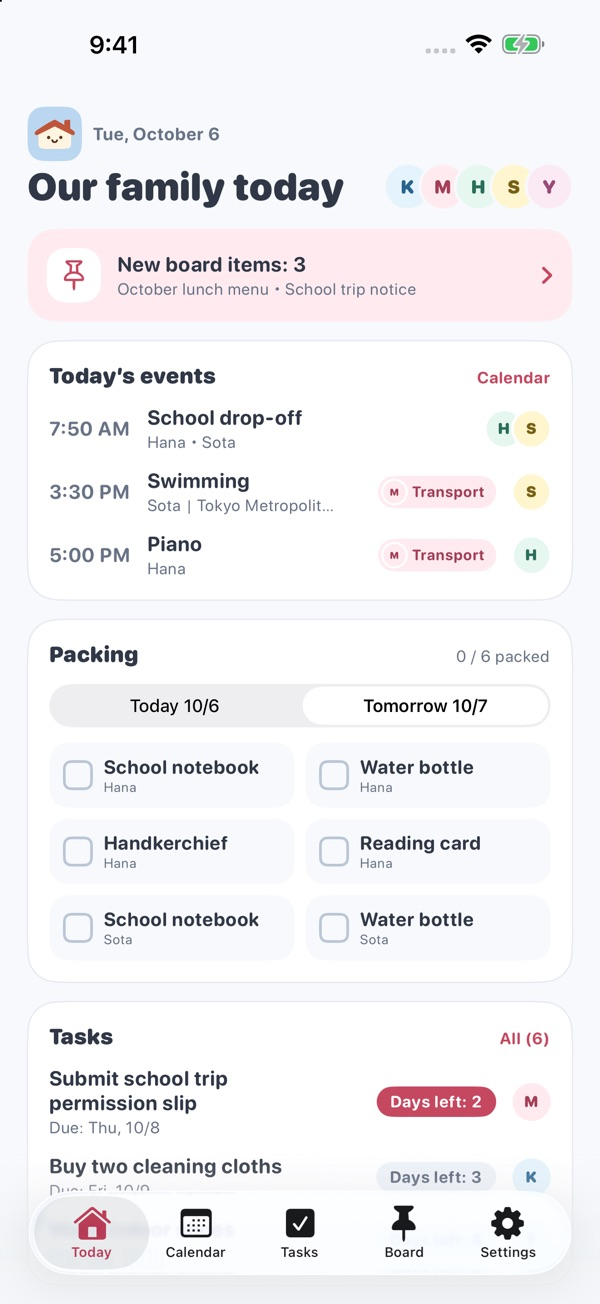
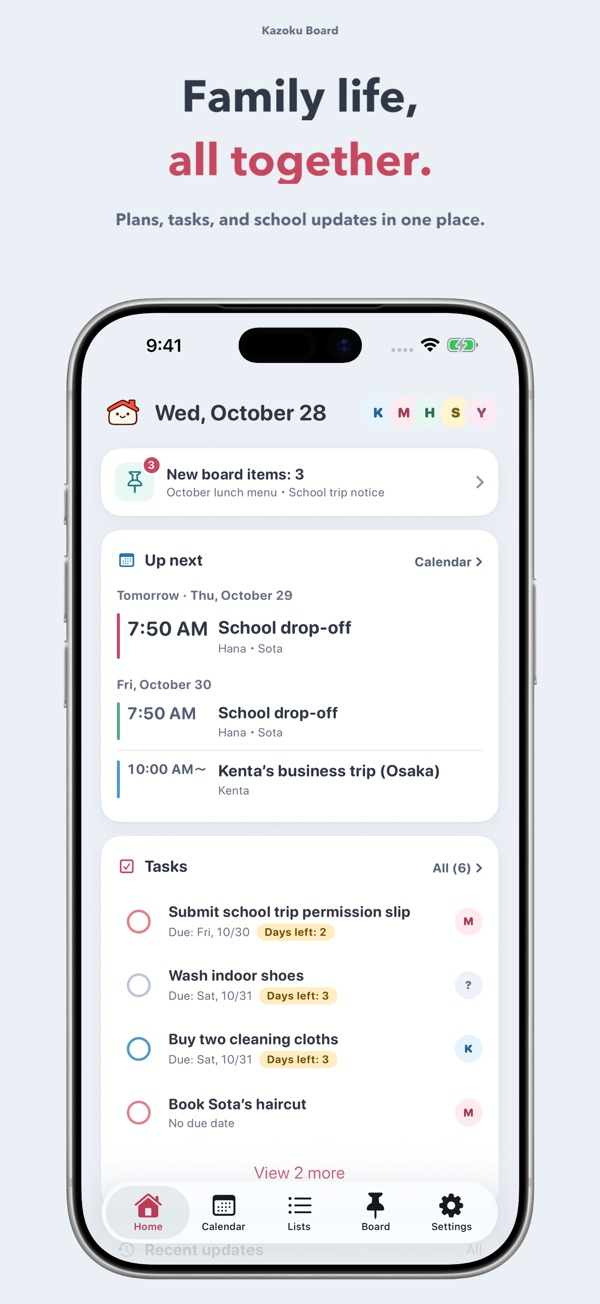
content(kazoku-board): reflect 1.2.7 UI refresh with new screenshots and copy

diff --git a/app/(en)/works/kazoku-board/en/page.tsx b/app/(en)/works/kazoku-board/en/page.tsx
@@ -7,7 +7,7 @@ const doc = {
   description: 'A shared calendar and school-handout board for parents.',
   seoTitle: 'Kazoku Board — Shared family calendar & school handouts',
   seoDescription:
-    'Share your family calendar, to-dos, school handouts, pick-ups and things to bring via iCloud. Snap a handout to turn it into events. Sharing is free; one Pro purchase covers the whole family.',
+    'Share your family calendar, school handouts, and lists for tasks, shopping and places to go via iCloud. Snap a handout to turn it into events. Sharing is free; one Pro purchase covers the whole family.',
 } as const;
 
 export const metadata = appPageMetadata({ slug: 'kazoku-board', ...doc });
@@ -16,19 +16,29 @@ export default function Page() {
   return (
     <KazokuBoardDocument {...doc}>
       <p>
-        Keep family events, tasks, school handouts, links, pickups, and packing lists together. Scan handouts with
-        on-device text recognition, review the results, and save suggested events or tasks.
+        Home, Calendar, Lists and Board keep your family&apos;s plans and preparations in one place. The Board gathers
+        school or daycare handouts and shared links, with previews so you can find what you need at a glance.
       </p>
-      <h2>Today and the whole month</h2>
+      <h2>Snap a handout, save the plan</h2>
       <p>
-        The calendar has a daily agenda and a monthly event list. Duplicate events, or edit or cancel a single
-        occurrence of a recurring event. Search your tasks and undo a completion if you tapped it by mistake.
+        Scan handouts with on-device text recognition. Review and correct the results, then save suggested events and
+        tasks. Keep multiple pages together.
+      </p>
+      <h2>A calendar with pickups and things to bring</h2>
+      <p>
+        Open a day to see its plans. Coordinate pickups and items to bring, with event times, responsibilities and due
+        dates easy to read. The layout also works well on iPad and other wide screens.
+      </p>
+      <h2>Tasks, shopping and places to go</h2>
+      <p>
+        Share family tasks, shopping and places to go. Track shopping quantities and purchases. Save places with maps
+        and photos, then turn them into events. Tasks with deadlines also appear on the calendar.
       </p>
       <h2>Free sharing. One purchase for family Pro.</h2>
       <p>
-        Invite your family through iCloud for free. The free version includes ads and 10 handout imports per month
-        across the family, with unlimited events and tasks. A one-time Pro purchase by the owner removes ads and the
-        handout import limit for the whole family.
+        Invite your family through iCloud to share and edit from iPhone and iPad. The free version includes ads and 10
+        handout imports per month across the family, with unlimited events and tasks. A one-time Pro purchase by the
+        owner removes ads and the handout import limit for the whole family.
       </p>
       <p>
         Supports Japanese and English. Requires iOS or iPadOS 26 or later. School-grade calculations follow the Japanese

diff --git a/lib/apps.ts b/lib/apps.ts
@@ -59,7 +59,7 @@ export const publishedApps: PublishedApp[] = [
     category: 'family',
     icon: '/images/apps/kazoku-board.png',
     summary:
-      '家族カレンダー、やること、学校プリント、送迎や持ち物を家族で共有。プリントは撮影して文字を読み取り、そのまま予定にできます。',
+      '家族カレンダー、学校プリント、買い物や行きたいところのリスト、送迎や持ち物を家族で共有。プリントは撮影して文字を読み取り、そのまま予定にできます。',
     devices: 'iPhone・iPad',
     pricing: '無料（広告あり）・Pro買い切り',
     catch: '家族の予定と学校プリントを共有',
@@ -70,7 +70,7 @@ export const publishedApps: PublishedApp[] = [
     en: {
       name: 'Kazoku Board',
       description:
-        'Share your family calendar, to-dos, school handouts, pick-ups and things to bring via iCloud. Snap a handout to turn it into events. Sharing is free; one Pro purchase covers the whole family.',
+        'Share your family calendar, school handouts, shopping and places-to-go lists, pick-ups and things to bring via iCloud. Snap a handout to turn it into events. Sharing is free; one Pro purchase covers the whole family.',
       catch: 'Share family plans and school handouts',
       pricing: 'Free with ads · Pro one-time purchase',
     },

diff --git a/contents/works/kazoku-board.md b/contents/works/kazoku-board.md
@@ -1,26 +1,34 @@
 ---
-title: "かぞくボード — 家族の予定とプリントを共有"
-description: "予定、やること、学校プリント、送迎や持ち物を家族で共有するiPhone・iPadアプリ。"
-seoTitle: "かぞくボード — 家族の予定・学校プリントを共有するアプリ"
-seoDescription: "家族カレンダー、やること、学校プリント、送迎や持ち物をiCloudで家族と共有。プリントは撮影して文字を読み取り、そのまま予定に登録できます。共有は無料、Proは一度の購入で家族全員に。"
-thumbnail: "/images/apps/kazoku-board.png"
+title: 'かぞくボード — 家族の予定とプリントを共有'
+description: '予定、学校プリント、やることや買い物のリスト、送迎や持ち物を家族で共有するiPhone・iPadアプリ。'
+seoTitle: 'かぞくボード — 家族の予定・学校プリントを共有するアプリ'
+seoDescription: '家族カレンダー、学校プリント、やること・買い物・行きたいところのリストをiCloudで家族と共有。プリントは撮影して文字を読み取り、そのまま予定に登録できます。共有は無料、Proは一度の購入で家族全員に。'
+thumbnail: '/images/apps/kazoku-board.png'
 thumbnailHeight: 512
 thumbnailWidth: 512
-thumbnailFileName: "かぞくボードの家のアイコン"
-createdAt: "2026-10-06"
+thumbnailFileName: 'かぞくボードの家のアイコン'
+createdAt: '2026-10-06'
 ---
 
 ## 家族の毎日を、ひとつのボードに
 
-家族カレンダー、やること、学校のプリント、共有リンク、送迎や持ち物をまとめて確認できます。プリントは撮影して端末内で文字認識。読み取り結果を確認し、予定ややることとして保存できます。
+ホーム・カレンダー・リスト・ボードの4つの画面で、家族の予定や準備をまとめて確認できます。ボードには学校や園のプリントと共有したいリンクを集めて、プレビュー付きの一覧から必要な情報をすぐ見つけられます。
 
-## 今日の予定も、今月の予定も
+## プリントは撮って、そのまま予定に
 
-カレンダーは日別の予定欄と予定一覧で、その日の流れも月の予定もすぐ確認できます。予定の複製や、繰り返し予定の1回だけの変更・中止にも対応。やることは検索でき、うっかり完了にしたものも取り消せます。
+プリントを撮影すると、端末内で文字を読み取ります。読み取り結果を確認・修正して、予定ややることとして登録できます。複数ページのプリントもまとめて保存できます。
+
+## カレンダーで、送迎や持ち物まで
+
+日付を開くとその日の予定を一覧できます。送迎の担当や予定に必要な持ち物もまとめられ、時刻・担当・期限がひと目でわかります。iPadなどの広い画面でも見やすいレイアウトです。
+
+## やること、買い物、行きたいところ
+
+提出物や家族の用事、買い物、行きたいところをリストで共有できます。買い物は数量や購入済みを管理。行きたいところは地図や写真と一緒に保存して、そのまま予定にできます。期限のあるやることはカレンダーにも表示されます。
 
 ## 共有は無料。オーナーの購入で家族みんながProに
 
-iCloudで招待した家族と共有できます。無料版は広告あり、プリント取り込みは家族全体で月10件まで。予定とやることの追加は無制限です。オーナーがProを一度購入すると、家族全員が広告なし・プリント取り込み無制限になります。
+iCloudで招待した家族と、iPhone・iPadで共有・編集できます。無料版は広告あり、プリント取り込みは家族全体で月10件まで。予定とやることの追加は無制限です。オーナーが買い切りのProを一度購入すると、家族全員が広告なし・プリント取り込み無制限になります。
 
 日本語・英語に対応。iOS / iPadOS 26以降が必要です。学年の計算は日本の学校制度を基準としています。
 
